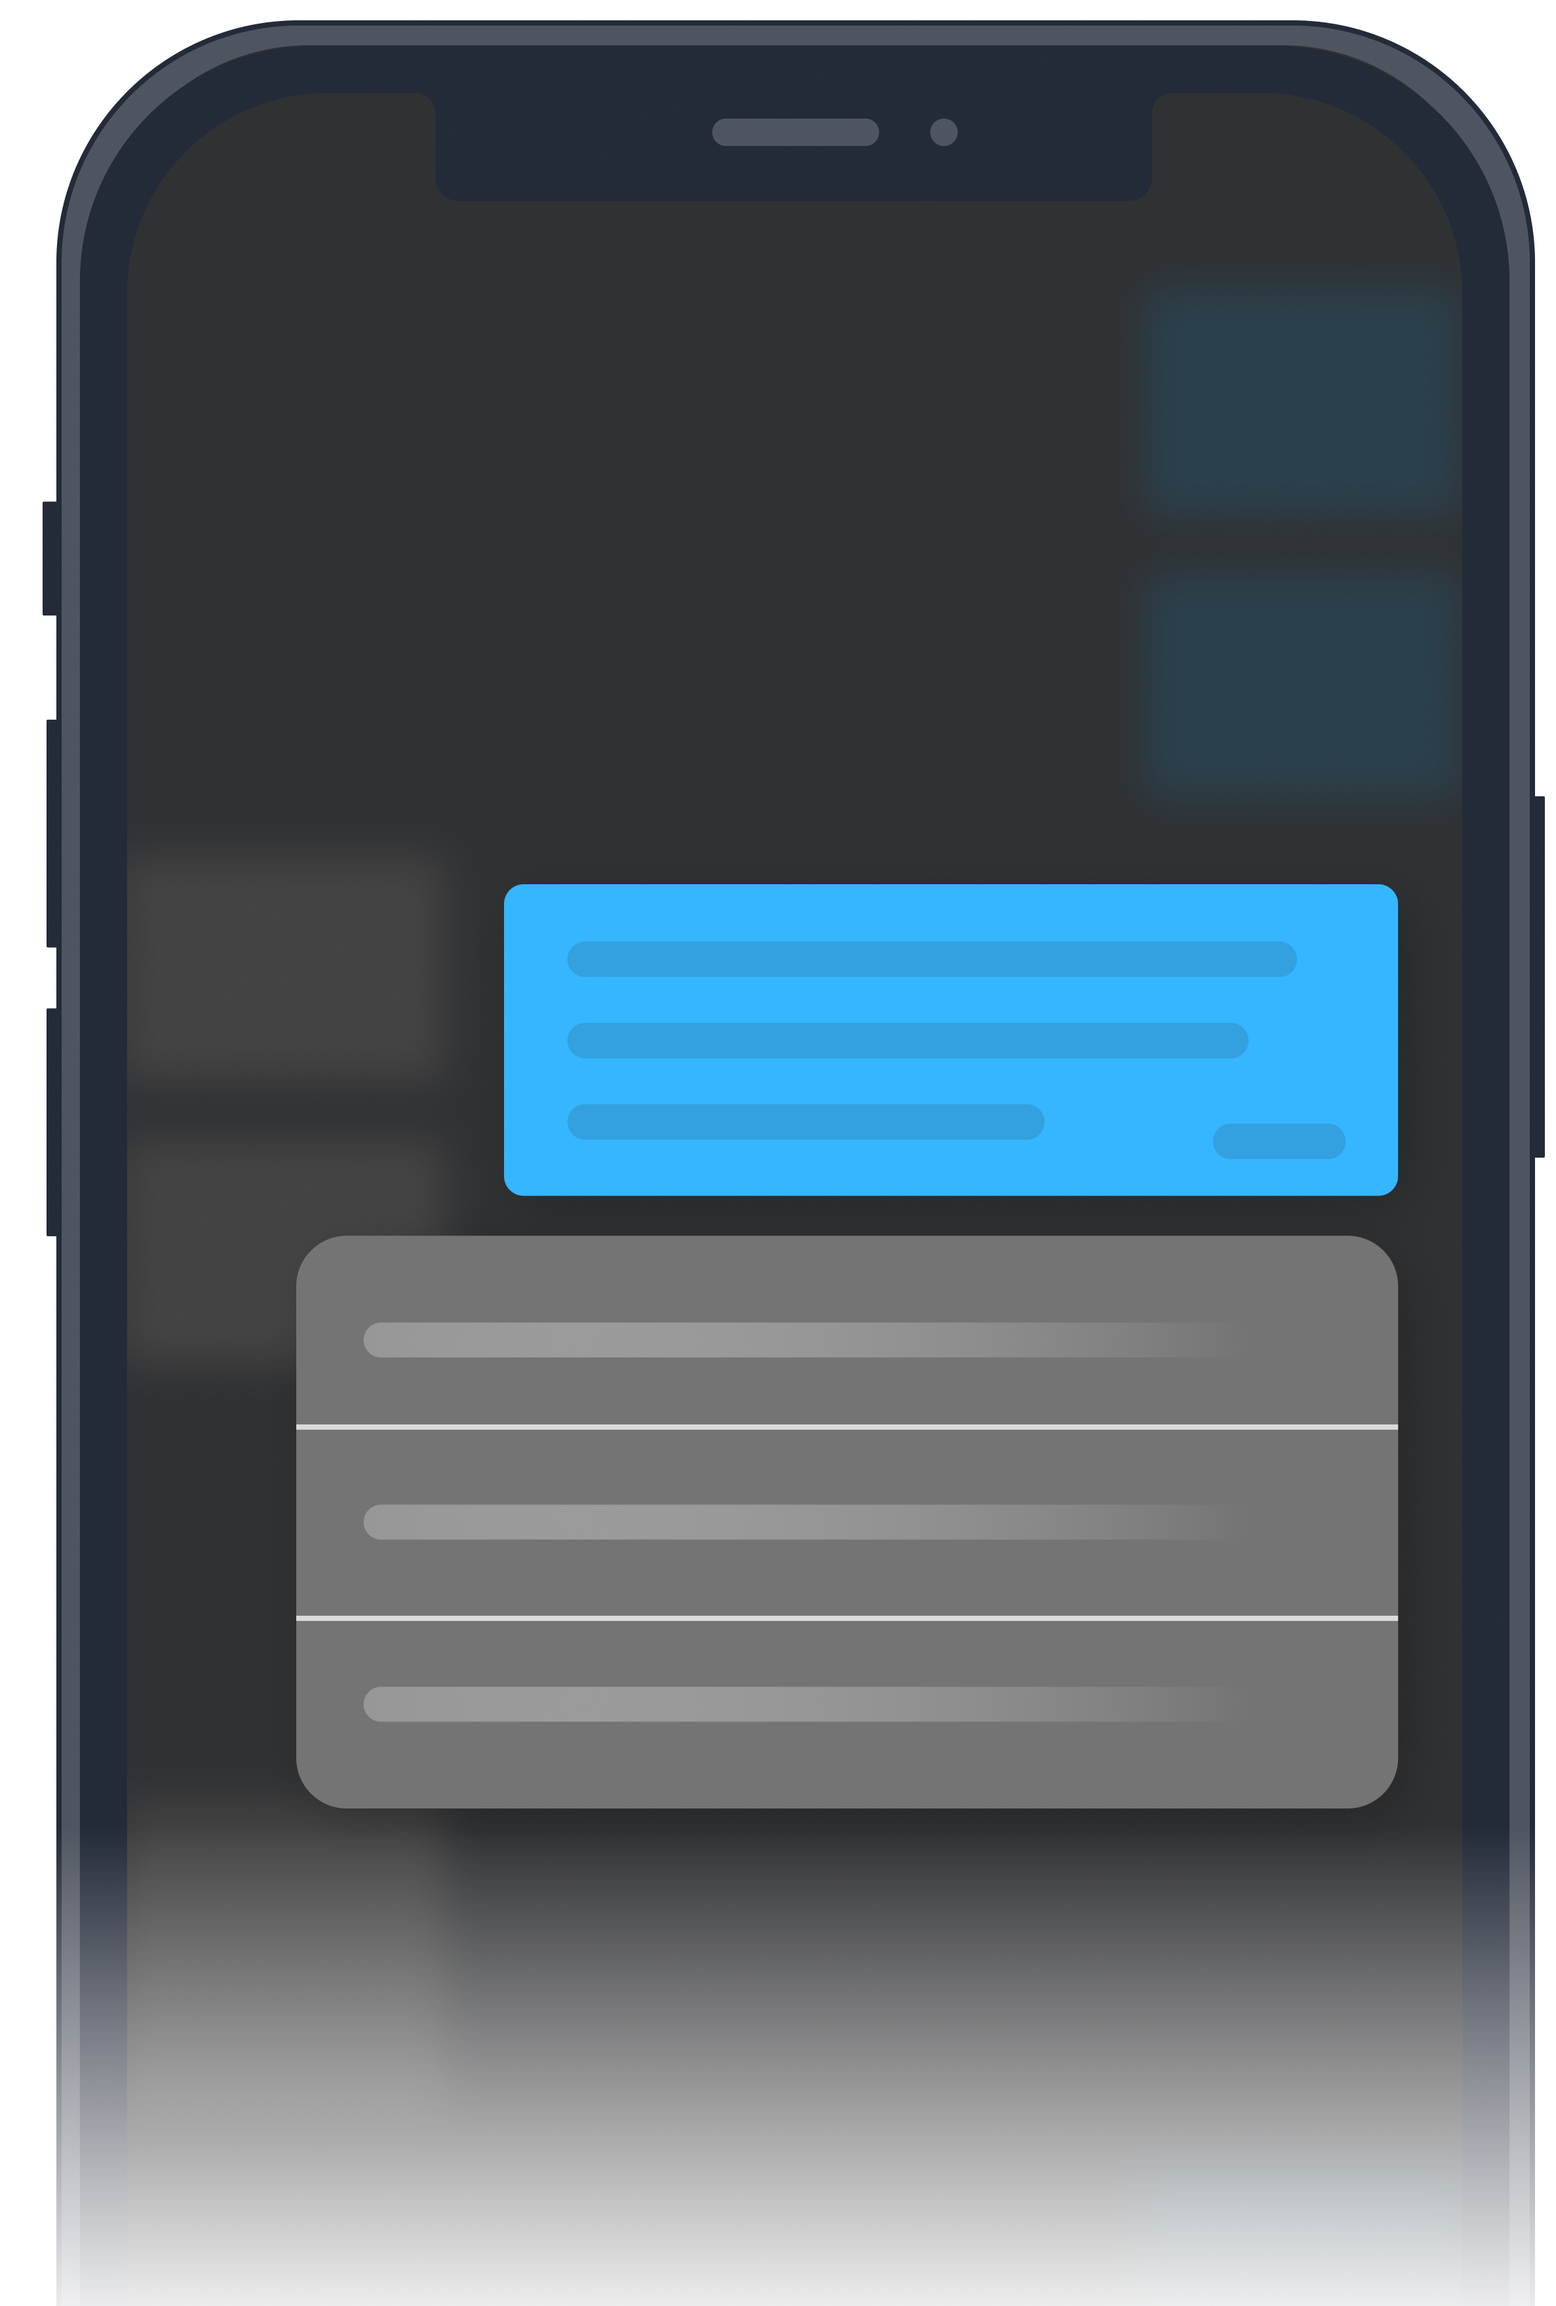
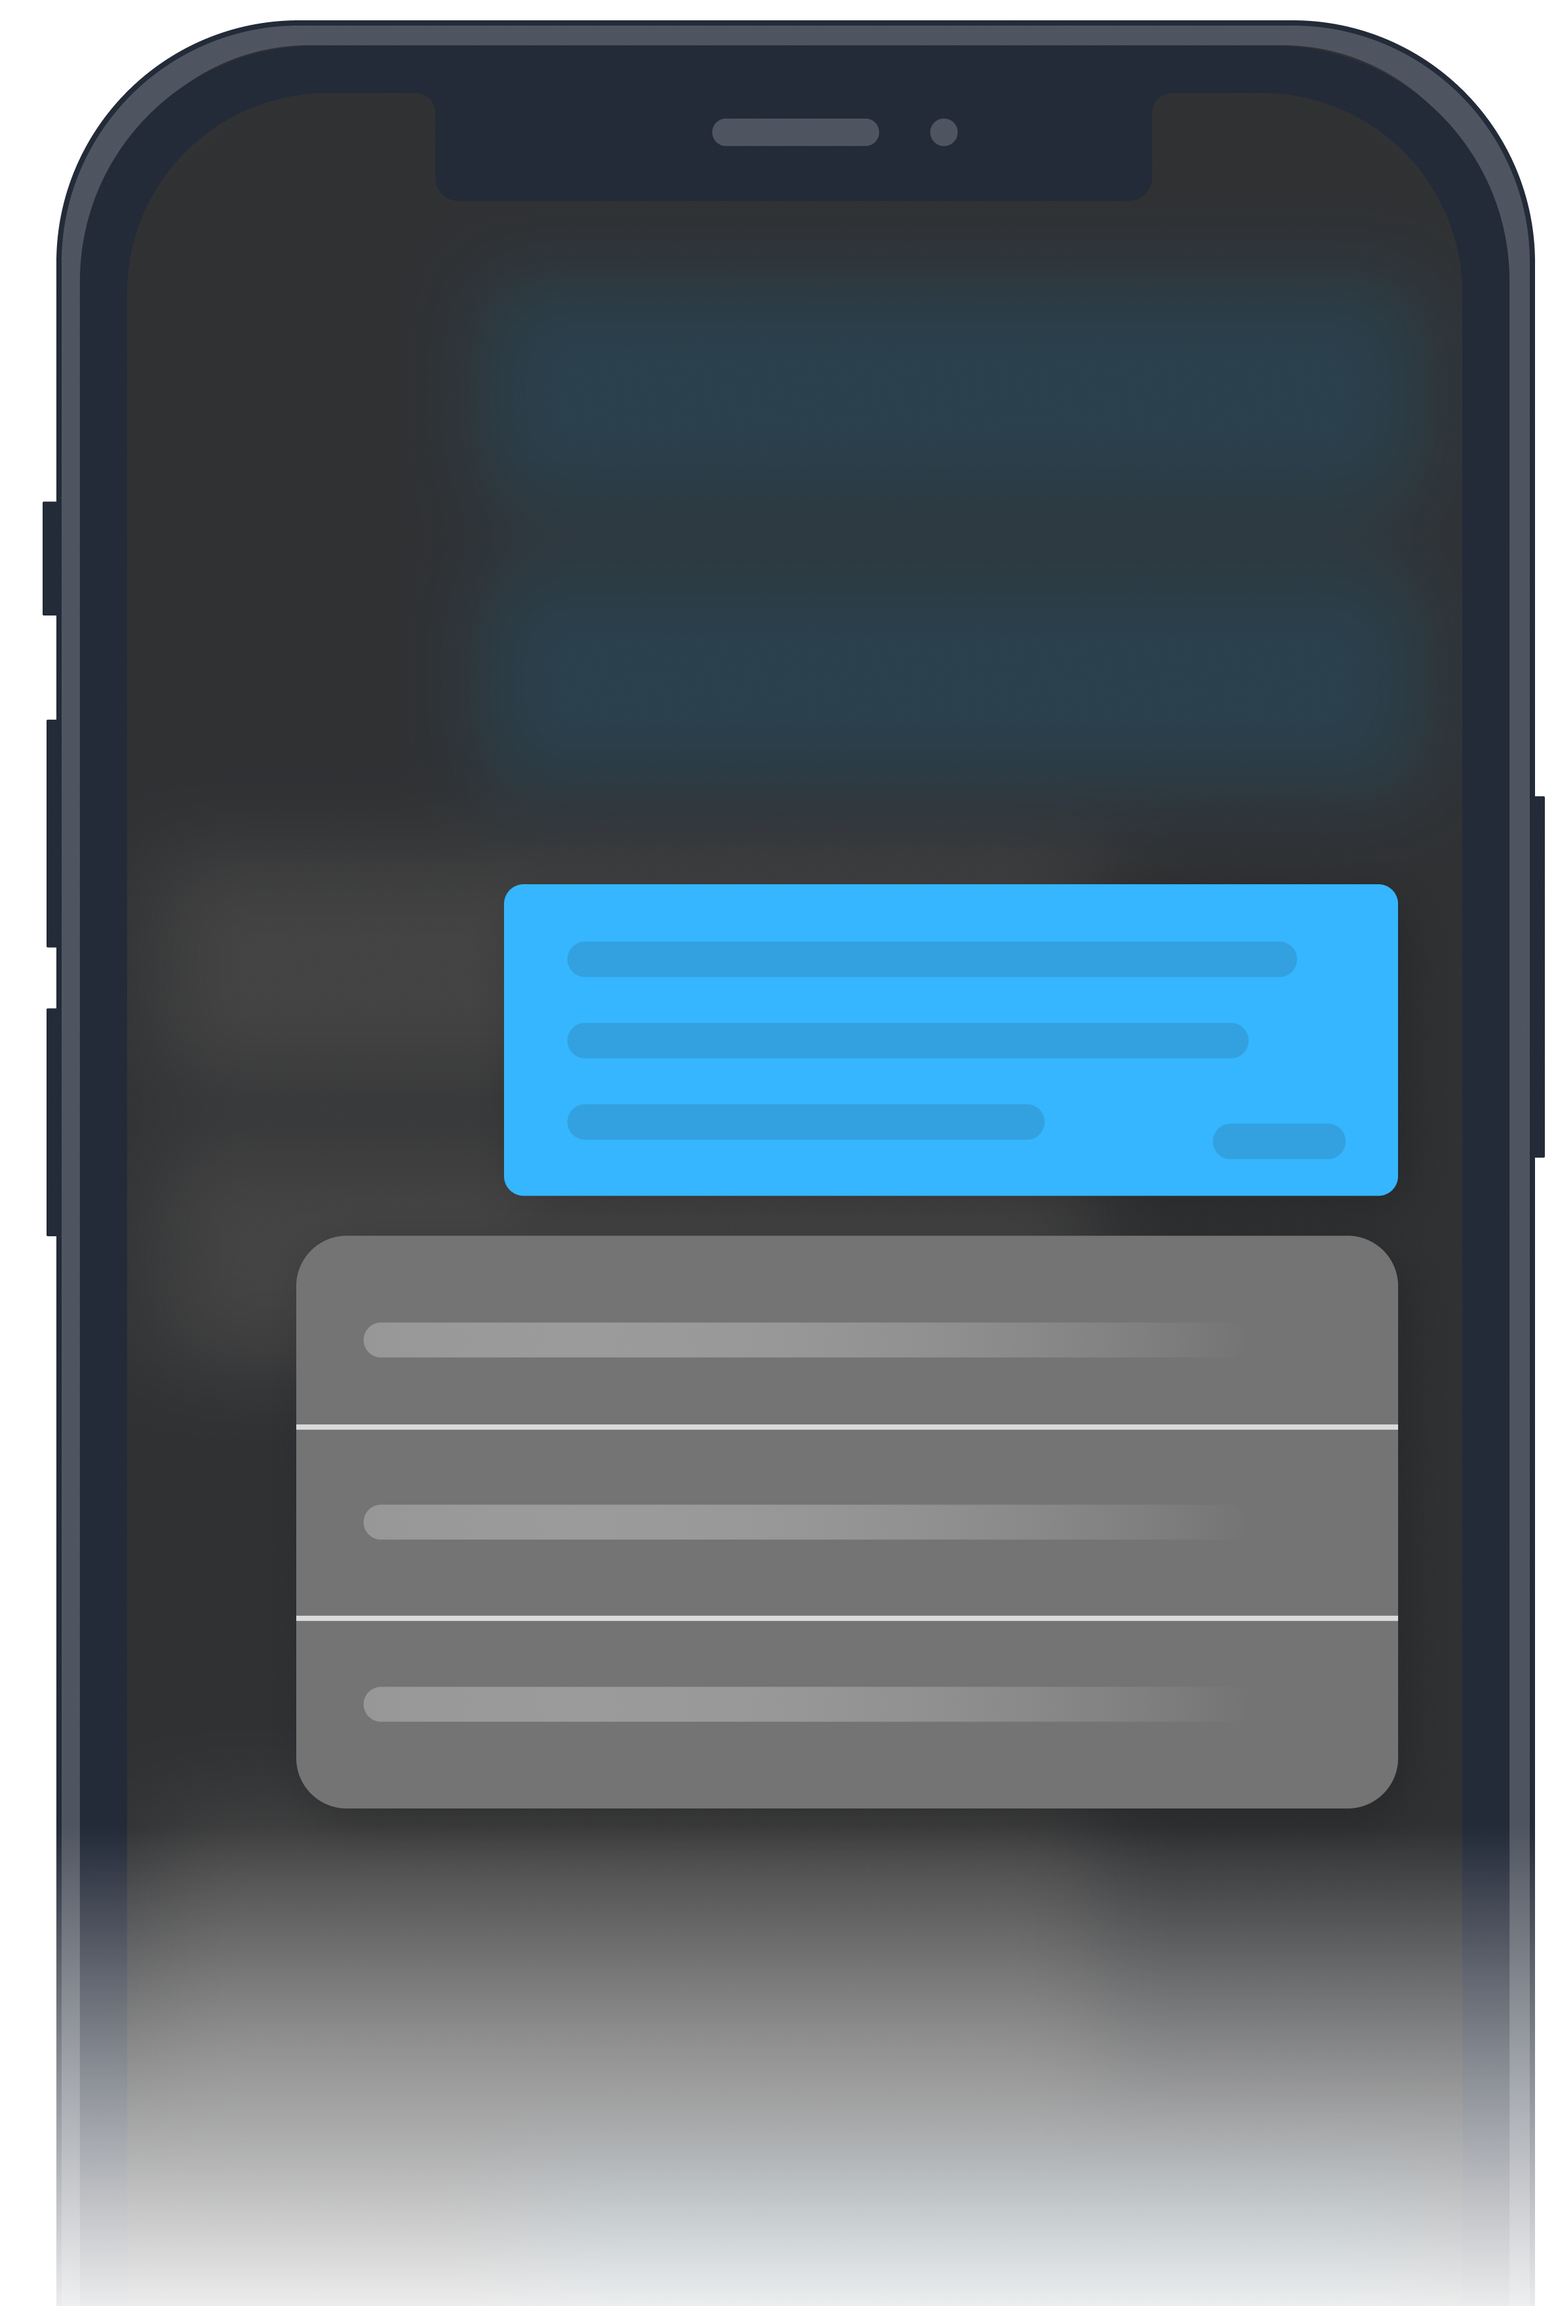
Update website home page

Changed region(s): [[0.3429, 0.2479, 0.7169, 0.3408], [0.3429, 0.1549, 0.7169, 0.2169]]

diff --git a/website/src/css/header.module.css b/website/src/css/header.module.css
@@ -1,3 +1,8 @@
+.header {
+  padding-top: 4em;
+  padding-bottom: 4em;
+}
+
 .wrapper {
   --padding: 2rem;
   max-width: var(--max-content-width);
@@ -32,6 +37,7 @@
 }
 
 .heading {
+  color: var(--ifm-color-emphasis-900);
   font-weight: 600;
   font-size: 3rem;
   line-height: 3.5rem;
@@ -39,7 +45,7 @@
 }
 
 .subHeading {
-  color: #404040;
+  color: var(--ifm-color-emphasis-800);
   line-height: 2.2rem;
   font-size: 1.4rem;
   font-weight: 300;
@@ -74,14 +80,13 @@
   position: relative;
   display: flex;
   align-items: center;
-  color: #333;
+  color: var(--ifm-color-emphasis-800);
   padding: 0.9rem 1.5rem;
   appearance: none;
   outline: none;
   cursor: url(/pointer.svg), pointer;
   border: none;
-  background: #f7fafd;
-  box-shadow: 0 0 0 1px #e7edf2;
+  background: var(--ifm-color-emphasis-200);
   border-radius: 5px;
   white-space: nowrap;
   font-family: var(--mono-font-stack);
@@ -89,7 +94,8 @@
   margin-left: 1em;
 }
 
-.phoneImageWrapper {
+.phoneImageWrapper,
+.phoneImageWrapperOnLeft {
   flex: 3;
   display: flex;
   align-items: center;
@@ -99,16 +105,11 @@
   perspective: 1500px;
 }
 
-/* .phoneImageWrapper img {
-  transform: rotateX(10deg) rotateY(-18deg) rotateZ(3deg);
-  transition: 0.3s;
+.phoneImageWrapperOnLeft {
+  display: none;
 }
 
-.phoneImageWrapper:hover img {
-  transform: rotate(0);
-} */
-
-@media (max-width: 1100px) and (min-width: 940px) {
+@media screen and (max-width: 1100px) and (min-width: 940px) {
   .buttonsWrapper {
     flex-direction: column;
     align-items: flex-start;
@@ -120,9 +121,38 @@
   }
 }
 
-@media (max-width: 940px) {
+@media screen and (max-width: 940px) {
   .hero {
     flex-direction: column;
     align-items: center;
+  }
+}
+
+@media screen and (max-width: 620px) {
+  .buttonsWrapper {
+    flex-direction: column;
+    align-items: flex-start;
+  }
+
+  .copyPaste {
+    margin-left: 0;
+    margin-top: 1em;
+  }
+
+  .header {
+    padding-top: 2em;
+    padding-bottom: 2em;
+  }
+
+  .phoneImageWrapper img {
+    max-height: 320px;
+  }
+
+  .phoneImageWrapperOnLeft {
+    display: flex;
+  }
+
+  .phoneImageWrapper {
+    display: none;
   }
 }

diff --git a/website/src/pages/index.js b/website/src/pages/index.js
@@ -11,9 +11,15 @@ function Content() {
   const { isDarkTheme } = useThemeContext();
 
   return (
-    <header>
+    <header className={styles.header}>
       <div className={styles.wrapper}>
         <section className={styles.hero}>
+          <div className={styles.phoneImageWrapperOnLeft}>
+            <img
+              src={isDarkTheme ? DarkImage : LightImage}
+              style={{ maxHeight: 450 }}
+            />
+          </div>
           <div className={styles.heroWrapper}>
             <h1 className={styles.heading}>
               Make your components more interactable
